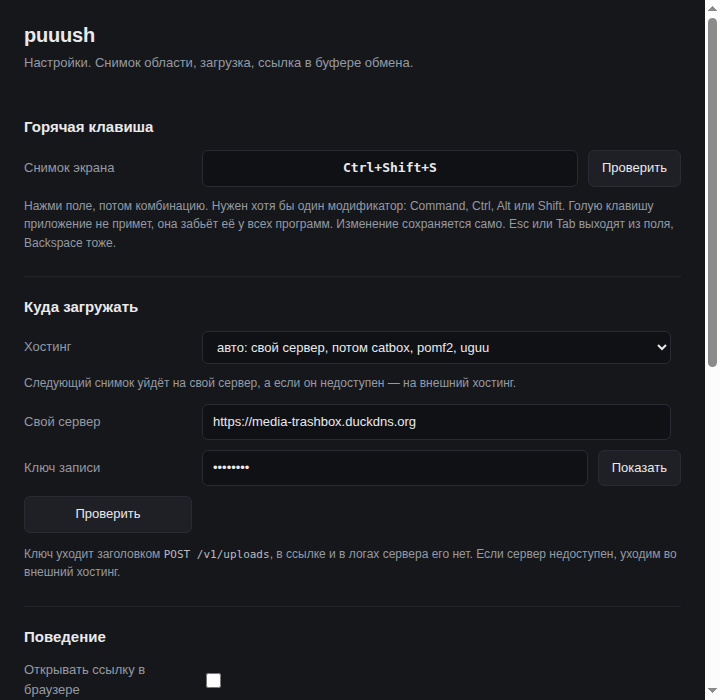
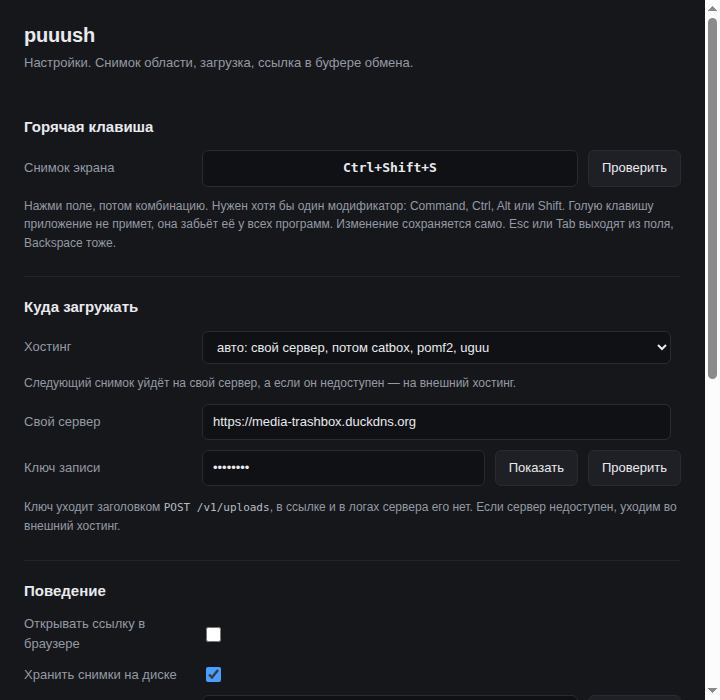
Раскладка: строке ключа возвращена четвёртая колонка
После добавления кнопки «Показать» строка ключа получила четыре элемента
при трёх колонках грида, и «Проверить» уезжал на свою строку. Добавлен
модификатор .row.two.

Проверено измерением в браузере: девять строк окна, переносов на вторую
линию ноль. Замеры, где сравнивались координаты top детей, давали ложные
восемь переносов: при align-items:center элементы разной высоты имеют разные
top, поэтому корректно сравнивать высоту строки с высотой самого высокого
ребёнка.

diff --git a/src/settings.html b/src/settings.html
@@ -44,6 +44,8 @@
   .row > .grow { min-width: 0; }
   /* Строки без правой кнопки не должны получать пустую третью колонку. */
   .row.plain { grid-template-columns: 168px minmax(0, 1fr); }
+  /* Две кнопки справа от поля: показать ключ и проверить сервер. */
+  .row.two { grid-template-columns: 168px minmax(0, 1fr) auto auto; }
   .row.check { grid-template-columns: 168px auto; }
 
   input[type=text], input[type=password], select {
@@ -190,7 +192,7 @@
         <label for="ownUrl">Свой сервер</label>
         <input type="text" id="ownUrl" class="grow" placeholder="https://media.example.duckdns.org">
       </div>
-      <div class="row">
+      <div class="row two">
         <label for="ownKey">Ключ записи</label>
         <input type="password" id="ownKey" class="grow" autocomplete="off"
                spellcheck="false" placeholder="ключ, который выдал сервер">
